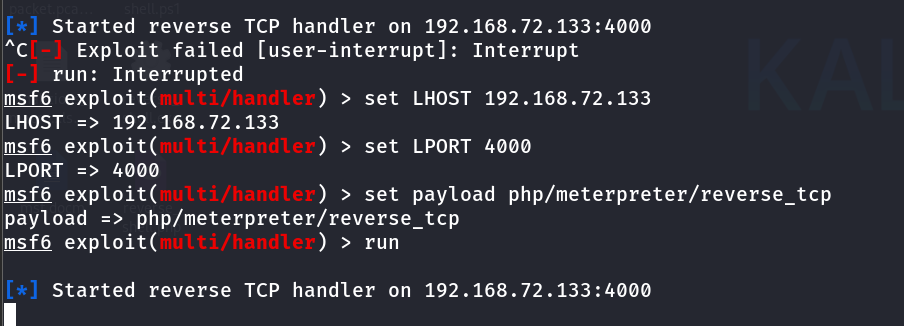
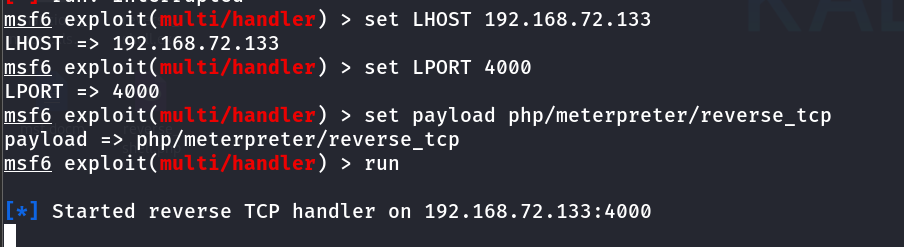
updated

Changed region(s): [[0.0, 0.4251, 0.9292, 0.7935], [0.0, 0.0, 0.7434, 0.3968], [0.0, 0.8219, 0.7434, 0.9352]]

diff --git a/README.md b/README.md
@@ -33,7 +33,7 @@ First, I created a malicious backdoor payload using msfvenom where I gave my hos
 
 Now, I need to configure msfconsole where I set up a listener with my host IP, port and payload. For this, I used multi/handler exploit which is Generic Payload Handler. 
 
-<img src="picture/pic6.png" heigth=100px weigth=100px>
+<img src="picture/pic2.png" heigth=100px weigth=100px>
 
 Now I will upload the malicious file to the DVWA server and find out the path where it will be uploaded.
 
